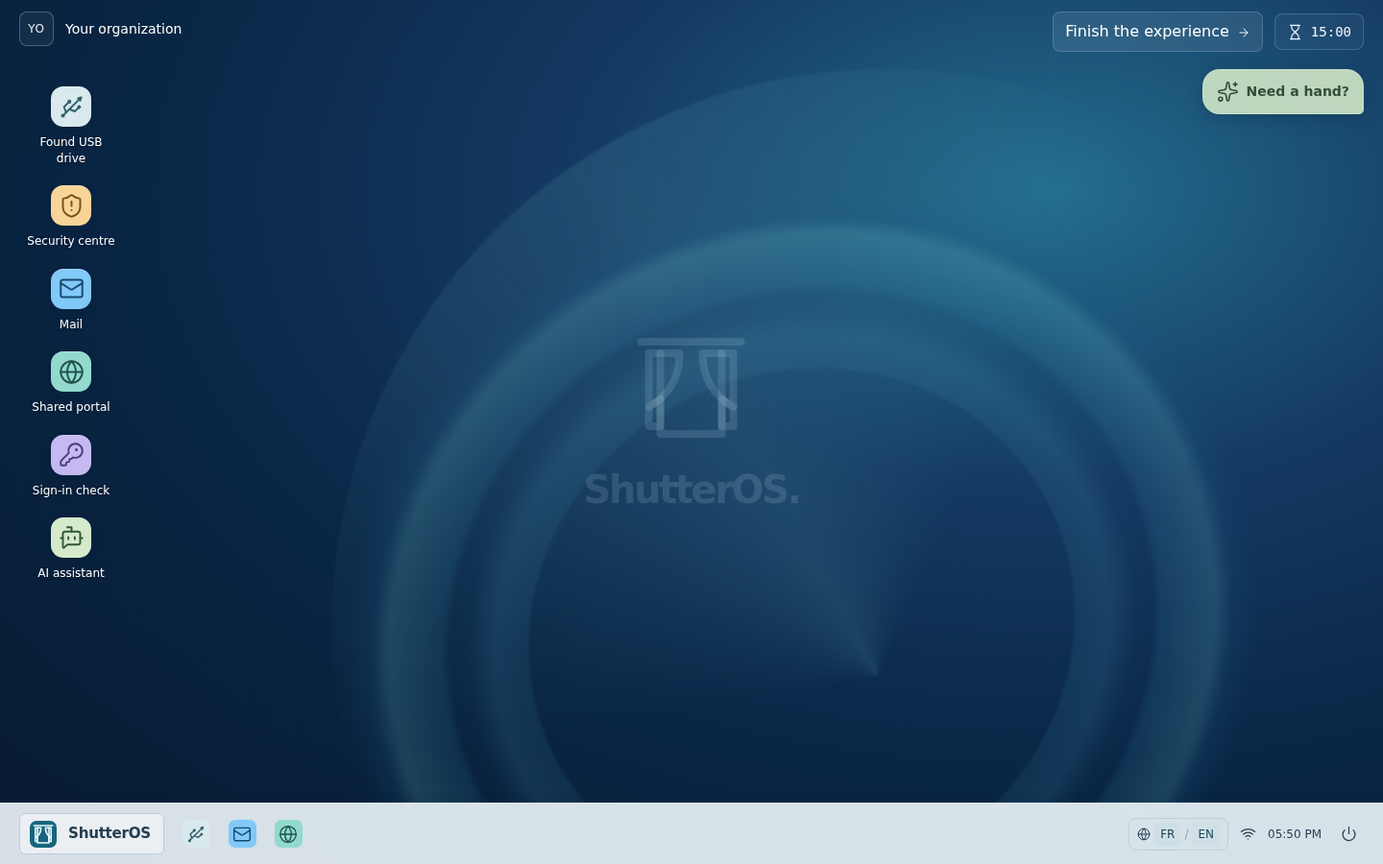
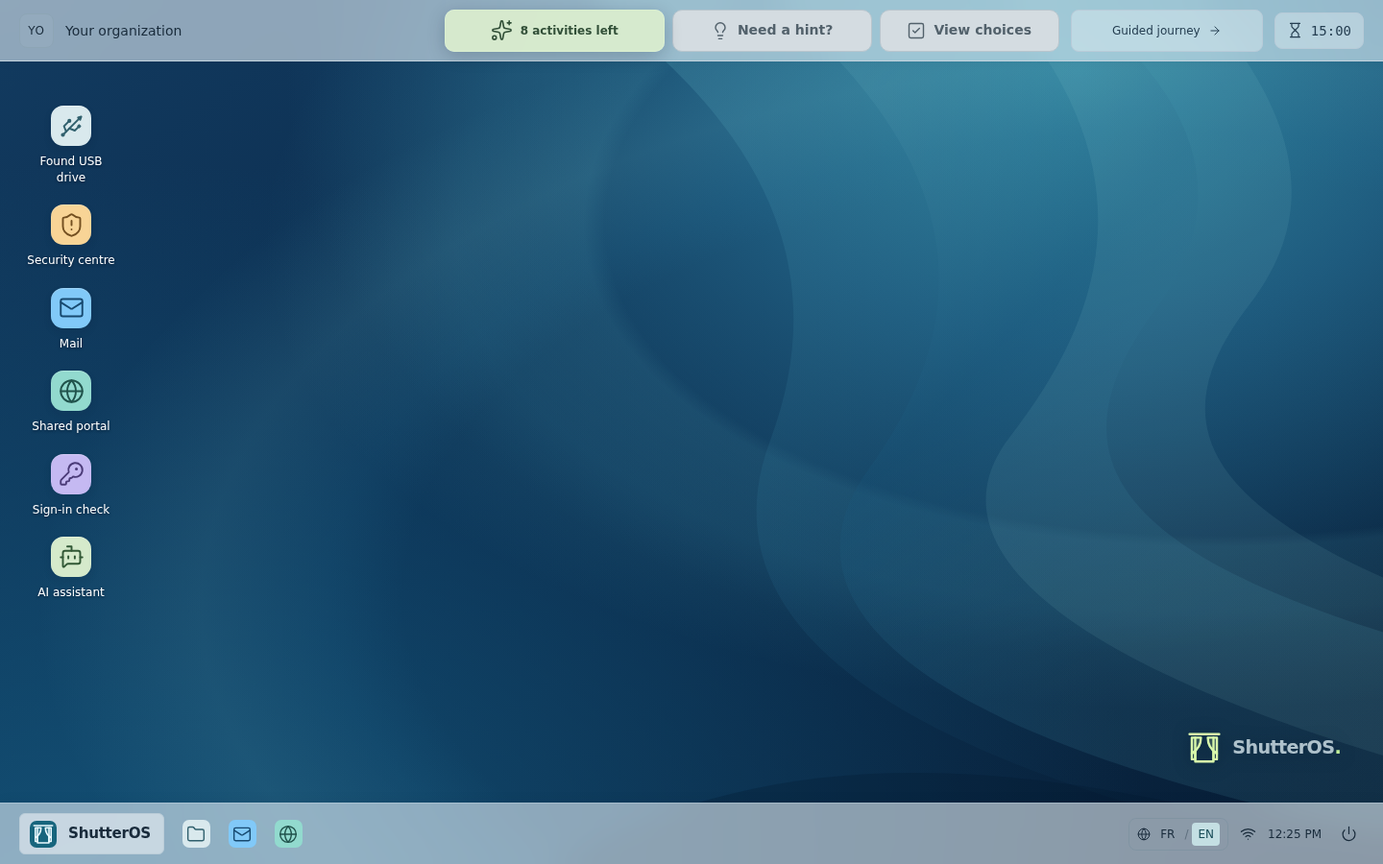
docs: align product site and guides with the desktop experience

diff --git a/docs/content.md b/docs/content.md
@@ -14,7 +14,9 @@ Keep professional and personal passwords separate. MFA adds protection, but a pa
 
 An unknown device can introduce risk merely by being connected. A media sanitisation station (French: “station de décontamination”, also called “station blanche”) is a dedicated workstation used by the organisation to scan media and handle detected threats, such as by deletion or quarantine. Its analysis reduces risk without guaranteeing safety. The scenario never reads an actual device.
 
-In the simulation, the desktop icon first opens a fictional file explorer. Selecting a file is harmless in the game; running the disguised executable triggers the consequence, and the archive also triggers a simulated infection. The readme opens a fictional text editor and is harmless in this exercise. It does not establish that the drive or its other files are safe. This deliberate discovery step is not a claim that browsing a real unknown drive is safe.
+In the simulation, the desktop icon first opens a fictional file explorer. A single click opens an activity or file; there is no separate file-selection step. Opening the disguised executable or archive triggers a simulated infection. Opening the readme records a risk and shows a warning in the fictional editor, while leaving the activity open. A subsequent safe action earns an amber assessment: the player took a risk, then reacted appropriately. The individual recovery action remains correct. These outcomes describe the simulated journey, not a ranking of file extensions: neither a text filename nor the absence of visible symptoms proves that a real unknown drive is safe.
+
+![USB feedback: a protective action after opening an unchecked file](images/usb-caution.png)
 
 ### Suspected incident
 
@@ -38,25 +40,25 @@ An unexpected authentication request should be denied and reported. Never share 
 
 ### AI assistant and work information
 
-In the AI situation, choose an internal or commercial tool, inspect the exercise policy, preview a prepared message, then send it. There is no real login, free-text entry, upload or AI request. Five variants cover routine car park meeting notes and security notes, each with or without names, plus a general template request. Neutral titles and an interleaved order encourage reading the drafts; the security notes carry only a “[Security]” marker.
+In the AI situation, choose an internal or commercial tool, inspect the exercise policy, preview a prepared message, then send it. There is no real login, free-text entry, upload or AI request. Five variants cover routine end-of-year meal planning notes and security notes, each with or without names, plus a request for a general working method. Neutral titles and an interleaved order encourage reading the drafts; the security notes carry only a “[Security]” marker.
 
-The fictional policy permits both versions of the routine project and general templates in the internal tool. The commercial tool permits the anonymised routine project and the general template. Neither accepts either version of the restricted security notes: removing names does not remove access vulnerabilities or remediation dates. Feedback explains the distinction after sending. Approval of this fictional draft is not a guarantee that removing names adequately anonymises a real document. These exercise rules do not replace the deploying organisation’s policy or AI usage charter.
+The fictional policy permits both versions of the routine project and general methods in the internal tool. The organisation does not ban commercial services, but excludes named, sensitive or recognisable internal information. The permitted routine draft removes names and identifying project details, alongside the general method option. Neither accepts either version of the restricted security notes: removing names does not remove access vulnerabilities or remediation dates. Feedback explains the distinction after sending. Approval of this fictional draft is not a guarantee that removing names adequately anonymises a real document. These exercise rules do not replace the deploying organisation’s policy or AI usage charter.
 
 Every outcome shows a common reminder about confidentiality, anonymisation and organisational rules. Removing names does not necessarily anonymise a document or make internal information shareable. Proper anonymisation can help within an approved use; a paid subscription alone grants no permission. Encourage asking before sending, reporting mistakes promptly, and checking generated answers. Guided completion offers both the native controls and equivalent guided choices.
 
 ### Quiet routines
 
-Three optional desktop routines reinforce password handling, company-approved system and software updates, and screen locking. Start provides direct access to account, update and lock controls. Their reminders wait while an activity or explanation is open, and do not interrupt guided completion. Title bars identify these tools as workstation protection; password renewal is separate from the mailbox. Follow the organisation's update and password policies while avoiding arbitrary password rotation as a game rule.
+The three-step workstation-protection activity reinforces password handling, company-approved system and software updates, and screen locking. Start provides direct access to account, update and lock controls. Their reminders wait while an activity or explanation is open, and do not interrupt guided completion. Title bars identify these tools as workstation protection; password renewal is separate from the mailbox. Follow the organisation's update and password policies while avoiding arbitrary password rotation as a game rule.
 
 ### Teaching and facilitation
 
-The guided ending targets three to five minutes: observe a cue, choose an action, see the simulated consequence, and read one practical takeaway; the session deadline still applies (fifteen minutes by default, configurable before deployment). Optional two-choice microchecks open in a separate view after the password routine (My account or guided routines) and after incident/MFA feedback. The login lesson contains no quiz. Microchecks are skippable and do not alter the primary score. Offer plausible choices, explain the consequence in about one sentence, and let participants replay situations to try different choices. Microcheck answers are retained for the current session.
+The guided ending targets three to five minutes: observe a cue, choose an action, see the simulated consequence, and read one practical takeaway; the session deadline still applies (fifteen minutes by default, configurable before deployment). Optional two-choice microchecks are integrated into the current lesson after the password routine (My account or guided routines) and after incident/MFA feedback. The login lesson contains no quiz. Microchecks are skippable and do not alter the primary score. Offer plausible choices, explain the consequence in about one sentence, and let participants replay situations to try different choices. Microcheck answers are retained for the current session.
 
 Use supportive language: reporting a click or an approval quickly is a protective action, not a failure. The game is a local simulator. The mailbox contains fixed fictional messages; it does not send mail or demonstrate a real spoofing technique.
 
 ## Editorial rules
 
-Target first-time awareness: decisions must follow visible clues, not knowledge of acronyms or security protocols. Introduce an unfamiliar action through a concrete example; keep technical references in these notes. Optional hints help locate controls without requiring a prior scenario. Feedback must describe the action actually taken. The seven scenarios use the same first-attempt assessment. A separate workstation-protection activity records three completed steps (password, updates and locking), without adding them to the scenario score. Direct controls and guided choices share the same action definitions and feedback, with the selected option identified in text as well as colour.
+Target first-time awareness: decisions must follow visible clues, not knowledge of acronyms or security protocols. Introduce an unfamiliar action through a concrete example; keep technical references in these notes. Optional hints prompt reflection and sometimes point to contextual information or controls. Feedback must describe the action actually taken. The seven scenarios use the same first-attempt assessment. A separate workstation-protection activity records three completed steps (password, updates and locking), without adding them to the scenario score. Direct controls and guided choices share the same action definitions and feedback, with the selected option identified in text as well as colour.
 
 Keep claims specific and proportionate. Do not imply that a media sanitisation station, a padlock icon, a signature, MFA, or a single visual signal guarantees safety. Familiar desktop conventions are acceptable; use original artwork and fictional service identities. Do not add real brands, real login forms, executable files, tracking, external embeds, or network-backed demonstrations.
 

diff --git a/docs/overview.md b/docs/overview.md
@@ -1,43 +1,37 @@
 # Architecture overview
 
-ShutterOS is a static Svelte application with a separate TypeScript core. The core decides what happens in the game; the browser supplies time, configuration and player actions. Session data stays in memory, with no backend or saved scores.
+ShutterOS is a static application with a deterministic TypeScript game core and a Svelte interface. It has no backend. Session progress lives in memory and is discarded when the session ends.
 
-## Code organisation
+## Responsibilities
 
-| Location                 | Owns                                                                        |
-| ------------------------ | --------------------------------------------------------------------------- |
-| `packages/core`          | Game state, decisions, progression and derived view data.                   |
-| `src/lib/contract`       | Validation of the external configuration JSON.                              |
-| `src/lib/infrastructure` | Browser clock, configuration loading and mapping, images and legal notices. |
-| `packages/components`    | Svelte rendering, input drafts, window layout and focus.                    |
-| `src/lib/app`            | Connecting the core to the browser and managing their lifetimes.            |
+| Layer                    | Responsibility                                                                 |
+| ------------------------ | ------------------------------------------------------------------------------ |
+| `packages/core`          | Game state, permitted actions, outcomes, progression and semantic projections. |
+| `packages/components`    | Screens, input drafts, window geometry, focus and visual guidance.             |
+| `src/lib/contract`       | Decode and validate external configuration.                                    |
+| `src/lib/infrastructure` | Browser time, configuration loading, branding assets and legal notices.        |
+| `src/lib/app`            | Connect the game to browser services and manage their lifetimes.               |
 
-A player action follows **component → app runtime → core transition → updated state → component**. Components emit intents; the core returns the next state. For example, disconnecting the simulated network moves the incident to its reporting step. Moving or minimising its window is handled by the view, which reports whether the activity is visible so assistance time can pause.
+Dependencies point toward the core. It compiles without DOM types or runtime dependencies. Components emit typed intents; they do not assign results. ESLint and [boundary tests](../tests/unit/boundaries.test.ts) enforce import boundaries.
 
-The core compiles without DOM types or external dependencies. The Svelte components compile independently of the SvelteKit application and depend only on the core and their UI libraries. ESLint restricts imports between layers, and [boundary tests](../tests/unit/boundaries.test.ts) check these restrictions. Configuration passes through a strict decoder before reaching the core; invalid settings produce an error screen.
+The typed text catalogue currently groups scenario copy and interface labels in `core/data`; configuration likewise carries both game settings and branding. These shared data contracts do not give the transition engine access to browser services.
 
-## Session behaviour
+## State and interaction
 
-There is one deadline, set at login. Before handling an action, the runtime reads the current time and the core checks whether the session has expired. A click after the deadline therefore resets the session, even if a background tab delayed the clock callback. Periodic callbacks refresh the display and trigger expiry when nobody interacts. There are no per-scenario countdowns.
+A player action follows **view → app runtime → core transition → state → view**. The runtime supplies time explicitly, so transitions are reproducible without a browser. Native application actions and questionnaire choices use the same commands and outcome rules, defined in the [activity matrix](../packages/core/src/data/activities.ts).
 
-Guided finish continues an unfinished situation, then covers the remaining ones using the same deadline. Replays show new consequences without replacing the first recorded result. Each unfinished activity retains its decision step and assistance level across navigation; the incident’s isolation step therefore survives a return to the desktop. See the [transition code](../packages/core/src/runtime/game.ts) and [game-rule tests](../packages/core/tests/game.test.ts).
+The core owns the session deadline, assistance progression and recorded outcomes. Window movement, resizing, visual hint targets and keyboard focus remain presentation state. Minimising an activity reports its visibility to the core so assistance time pauses without extending the session deadline.
 
-Minimising preserves a window’s draft. Logout and expiry create a new session generation: Svelte remounts the session views, clearing drafts and dialogs as well as game progress. Language is owned outside that reset boundary, so the player’s language choice survives. Browser resources are created after mount and disposed when the application is replaced or unmounted.
+## Invariants
 
-## Activity matrix and assistance
+- Every action is checked against the session deadline, including after browser timers have been delayed.
+- Navigation preserves unfinished decisions. Replays never replace the first recorded result.
+- An action's outcome and its assessment are distinct: a safe USB action after opening the unchecked text file receives a caution assessment.
+- Session reset remounts the views to clear drafts and dialogs. Language preference survives outside that boundary.
+- External configuration is validated before entering the game; invalid input produces an error screen.
 
-[`data/activities.ts`](../packages/core/src/data/activities.ts) defines each activity’s family, actions, outcomes, next step and first hint target. Both native application controls and guided choices send the same intents. Tests enumerate this matrix and check progression; translations supply presentation copy rather than duplicating the rules.
+## Delivery
 
-Assistance is progressive: one hint identifies a control, the next opens the choices. Players may request either without waiting. Otherwise, each level is offered after two minutes of visible activity without progression; repeated clicks do not postpone it. Hidden or minimised activities pause this assistance clock. Guided completion opens the choices immediately. These delays never shorten the session or mark an answer wrong.
+The same application is built as a static site and as a standalone HTML file. The public product site adds the demo, guides, generated API reference and Storybook; this documentation tooling is separate from the game runtime.
 
-The login hint appears after three failed attempts or two minutes after first input. An untouched login screen can wait indefinitely. Notifications for account, update and lock routines are shown only on the free desktop. Guidance occupies its own workspace row and, when expanded, a bounded column beside the window.
-
-The remaining-activity count includes the seven scenarios and one workstation-protection activity. Its three steps (password, updates and locking) must all be completed before the normal completion flow reaches the recap. Desktop guidance can open this activity without waiting for notifications.
-
-The desktop guide only names a destination; it does not reveal or consume activity hints. In free exploration, each new decision step starts with fresh assistance time. Continuing either mail opens the other unfinished message. The recap keeps its heading and actions visible while its activity list scrolls independently.
-
-## Distribution
-
-`pnpm build` produces the static game in `dist/` and a standalone file in `dist/portable/shutteros.html`. The static game loads its configuration at startup; the standalone edition embeds it during the build.
-
-`pnpm build:site` assembles the public product site in `dist/site/`, including a demo built for `/demo/`, translated guides, the generated core API and Storybook. Documentation generation is separate from the game runtime. See [publication](publishing.md) for base paths and artifacts, [verification](verification.md) for checks, and [kiosk setup](kiosk.md) for host responsibilities.
+See [verification](verification.md) for checks, [publication](publishing.md) for artifacts and hosting, and [kiosk setup](kiosk.md) for deployment responsibilities.

diff --git a/docs/user-guide.fr.md b/docs/user-guide.fr.md
@@ -4,22 +4,24 @@ ShutterOS est un jeu de sensibilisation à la cybersécurité sur un bureau fict
 
 ## Jouer
 
-1. **Explorez le bureau.** Double-cliquez sur une application ou ouvrez-la depuis le menu Démarrer. Lisez les messages, examinez les détails et essayez les commandes avant de décider quoi faire.
-2. **Demandez un indice si besoin.** L’assistant au-dessus de l’activité propose un premier indice qui met une commande en évidence, puis un second qui ouvre les choix guidés. Demandez-les sans attendre, ou laissez-les apparaître après deux minutes sans progression à chaque niveau. Aucun compte à rebours ne presse votre réponse.
-3. **Choisissez comment terminer.** Continuez à explorer ou cliquez sur **Terminer l’expérience** pour parcourir les situations restantes et accéder au bilan.
+1. **Explorez le bureau.** Cliquez sur une application ou ouvrez-la depuis le menu Démarrer. Lisez les messages, examinez les détails et essayez les commandes avant de décider quoi faire.
+2. **Demandez un indice si besoin.** Dans la barre supérieure, le compteur d’activités restantes précède deux boutons dédiés. **Un indice ?** affiche une piste de réflexion, parfois accompagnée d’un repère visuel ; il devient **Masquer l’indice**, puis **Revoir l’indice** une fois l’indice masqué. **Voir les choix** ouvre le QCM. En exploration libre, ce bouton reste désactivé jusqu’à ce que vous ayez effectivement consulté l’indice. Ces aides sont aussi proposées automatiquement après deux minutes sans progression pour l’indice, puis deux minutes supplémentaires pour les choix. Aucun compte à rebours ne presse votre réponse.
+3. **Choisissez comment terminer.** Continuez à explorer ou cliquez sur **Parcours guidé** pour parcourir les situations restantes et accéder au bilan. Cliquez sur **Parcours libre** pour quitter le parcours guidé sans perdre l’activité en cours ni votre progression ; vous pouvez alors choisir vous-même la prochaine activité.
 
-Le sablier indique le temps restant : quinze minutes par défaut. Il continue pendant la fin guidée. À zéro, le jeu revient à la connexion et efface la progression.
+En parcours libre, chaque nouvelle activité s’ouvre dans une fenêtre de taille normale, quelle que soit la taille de l’activité précédente. Afficher le QCM peut élargir la fenêtre pour garder le contenu lisible, sans la maximiser. En parcours guidé, les activités s’enchaînent ; chaque nouvelle activité s’ouvre agrandie avec le QCM visible, mais vous pouvez la restaurer. Le résultat reste agrandi ou en mode fenêtré, selon votre choix pour l’activité en cours.
 
-Vous pouvez rejouer les situations terminées pour essayer une autre approche. Le bilan conserve votre premier résultat ; il sert à échanger, pas à enregistrer une évaluation.
+Le sablier indique le temps restant : quinze minutes par défaut. Il continue pendant le parcours guidé. À zéro, le jeu revient à la connexion et efface la progression.
 
-Sur le bureau, **Un coup de pouce ?** indique le nombre d’activités restantes et **M’y emmener** ouvre la suivante sans dévoiler ses indices. Le parcours compte sept scénarios et une activité **Protéger mon poste**, en trois étapes : mot de passe, mises à jour et verrouillage. Ces trois gestes sont proposés avant le bilan, même sans avoir ouvert leurs notifications.
+Vous pouvez rejouer les situations terminées pour essayer une autre approche. Le bilan conserve votre premier résultat ; il sert à échanger, pas à enregistrer une évaluation. Un résultat orange reconnaît une bonne réaction après une prise de risque, par exemple l’arrêt de l’exploration d’une clé après avoir ouvert le fichier texte `LISEZ-MOI.txt`.
+
+Le compteur d’activités restantes reste toujours visible à gauche des boutons d’indice et de QCM. Sur le bureau, lorsqu’aucune activité n’est affichée en exploration libre, il est activé : ouvrez-le pour consulter l’aide, puis choisissez **M’y emmener** afin d’accéder à l’activité suivante. Cette action ne révèle ni ne consomme son indice. Le parcours compte sept scénarios et une activité **Protéger mon poste**, en trois étapes : mot de passe, mises à jour et verrouillage. Ces trois gestes sont proposés avant le bilan, même sans avoir ouvert leurs notifications.
 
 Dans le bilan, faites défiler la liste des activités ; les boutons pour reprendre ou terminer restent visibles.
 
 ## Commandes utiles
 
 - **Langue :** choisissez FR ou EN sur l’écran de connexion ou dans la barre des tâches.
-- **Fenêtres :** faites glisser la barre de titre pour les déplacer. Leurs boutons permettent de les réduire ou de revenir au bureau. L’activité et ses indices reprennent à la réouverture.
+- **Fenêtres :** déplacez-les par leur barre de titre ; redimensionnez les fenêtres principales par leurs bords ou leurs coins. Agrandissez-les pour couvrir le bureau. Réduisez-les puis retrouvez-les dans la barre des tâches sans perdre votre place. Le fichier texte de la clé et les indices ont leurs propres fenêtres déplaçables ; **Masquer l’indice** replie sa fenêtre et ses repères visuels ; **Revoir l’indice** permet de relire l’indice.
 - **Clavier :** Tab passe d’une commande à l’autre ; Entrée ou Espace active les boutons. Le son n’est pas nécessaire.
 - **Quitter la session :** demande une confirmation avant d’effacer la progression. Annulez pour continuer à jouer.
 

diff --git a/docs/user-guide.md b/docs/user-guide.md
@@ -4,22 +4,24 @@ ShutterOS is a cybersecurity awareness game on a fictional desktop. Allow five t
 
 ## Play
 
-1. **Explore the desktop.** Double-click an application or open it from Start. Read the messages, inspect the details and try the controls before deciding what to do.
-2. **Ask for a hint when needed.** Use the assistant above the activity: a first hint highlights a useful control, a second opens guided choices. Both are available immediately on request, or offered after two minutes without progress at each level. There is no response countdown.
-3. **Choose how to finish.** Keep exploring, or select **Finish the experience** to work through the remaining situations and reach the recap.
+1. **Explore the desktop.** Click an application or open it from Start. Read the messages, inspect the details and try the controls before deciding what to do.
+2. **Ask for a hint when needed.** In the top bar, the remaining-activity counter comes before two dedicated buttons. **Need a hint?** displays a question to consider, sometimes with a visual cue; it becomes **Hide hint**, then **Show hint again** once hidden. **View choices** opens the questionnaire. In free exploration, this button stays disabled until you have actually viewed the hint. Help is also offered automatically after two minutes without progress for the hint, then after another two minutes for the choices. There is no response countdown.
+3. **Choose how to finish.** Keep exploring, or select **Guided journey** to work through the remaining situations and reach the recap. Select **Free exploration** to leave the guided journey without losing the current activity or your progress; you can then choose what to open next.
+
+In free exploration, each new activity opens in a normal window, regardless of the size of the previous activity. Opening the questionnaire may widen the window to keep both panes readable, without maximizing it. In guided mode, activities follow one another; each new activity opens maximized with the questionnaire visible, but you can restore it. The result keeps the current activity maximized or restored as you chose.
 
 The hourglass shows the time left in the session: fifteen minutes by default. It keeps running during the guided finish. At zero, the game returns to the login screen and clears your progress.
 
-You can replay completed situations to try another approach. The recap keeps your first result; it is for discussion, not a saved assessment.
+You can replay completed situations to try another approach. The recap keeps your first result; it is for discussion, not a saved assessment. An amber result recognises a good response after taking a risk, such as stopping exploration of a USB drive after opening the `READ-ME.txt` text file.
 
-On the desktop, **Need a hand?** shows how many activities remain, and **Take me there** opens the next one without revealing its hints. The journey includes seven scenarios and one **Protect my workstation** activity with three steps: password, updates and locking. These steps are offered before the recap, even if their notifications were never opened.
+The remaining-activity counter is always visible to the left of the hint and questionnaire buttons. On the desktop, when no activity is displayed during free exploration, it is enabled: open it to read the help dialog, then select **Take me there** to reach the next activity. This action neither reveals nor consumes its hint. The journey includes seven scenarios and one **Protect my workstation** activity with three steps: password, updates and locking. These steps are offered before the recap, even if their notifications were never opened.
 
 In the recap, scroll the activity list; the buttons to resume or leave remain visible.
 
 ## Useful controls
 
 - **Language:** choose FR or EN on the login screen or taskbar.
-- **Windows:** drag the title bar to move one. Use its controls to minimise it or return to the desktop. Your activity and hints resume when you reopen it.
+- **Windows:** drag the title bar to move one, or any edge or corner to resize a main window. Maximise to cover the desktop. Minimise and restore from the taskbar without losing your place. The USB text file and hints have their own movable windows; **Hide hint** minimises the hint and hides its visual cues; **Show hint again** lets you read the hint again.
 - **Keyboard:** Tab moves between controls; Enter or Space activates buttons. Sound is not required.
 - **Leave the session:** asks for confirmation before clearing progress. Cancel to keep playing.
 

diff --git a/docs/branding.md b/docs/branding.md
@@ -19,7 +19,7 @@ The recommended HTTP deployment can take its name and logo from `dist/kiosk-conf
 
 Omit both `partnerOrganizationName` and `partnerOrganizationLogo` for a single organisation. Either organisation may use a name without a logo; a partner logo requires its partner name. Omit `organizationName` to retain the translated placeholder.
 
-Use a filename ending in `.png`, `.webp`, or `.svg`, with only ASCII letters, numbers, dots, `_`, and `-`. Paths, URL schemes, query strings, fragments, and data URLs are rejected. Place the image beside `kiosk-config.json` and the generated `index.html`; when building from source, put it in `static/` so the static adapter copies it to `dist/`. The browser loads it only as an `<img>` resource. Keep the file at or below 256 KiB. Use a self-contained SVG with a `viewBox`; external fonts or images should not be required. The image keeps its proportions inside a maximum height of 54 px and maximum width of `min(160px, 26vw)`. For two organisations, each logo has its own bounds (96 px wide on desktop, 48 × 40 px on small screens) and retains its proportions. A missing or unreadable logo falls back to that organisation’s initials.
+Use a filename ending in `.png`, `.webp`, or `.svg`, with only ASCII letters, numbers, dots, `_`, and `-`. Paths, URL schemes, query strings, fragments, and data URLs are rejected. Place the image beside `kiosk-config.json` and the generated `index.html`; when building from source, put it in `static/` so the static adapter copies it to `dist/`. The browser loads it only as an `<img>` resource. Keep the file at or below 256 KiB. Use a self-contained SVG with a `viewBox`; external fonts or images should not be required. The image keeps its proportions inside a maximum height of 54 px and maximum width of `min(160px, 26vw)`. The desktop top bar limits logo height to 44 px and aligns both organisations horizontally, with responsive wrapping of the controls. For two organisations, each logo has its own bounds (96 px wide on desktop, 48 × 40 px on small screens) and retains its proportions. A missing or unreadable logo falls back to that organisation’s initials.
 
 ```text
 dist/

diff --git a/README.md b/README.md
@@ -13,7 +13,7 @@ passwords, updates and screen locking before the recap.
 
 [**Play the live demo**](https://fcabouat.github.io/shutteros-playground/demo/?lang=en) · [Jouer en français](https://fcabouat.github.io/shutteros-playground/demo/?lang=fr)
 
-Use it in a reception area, a team workshop or a Cybersecurity Month event. Add your organisation’s identity, configure the session length, and let the kiosk reset for the next player. Players can explore freely or choose a guided finish.
+Use it in a reception area, a team workshop or a Cybersecurity Month event. Add your organisation’s identity, configure the session length, and let the kiosk reset for the next player. Players can explore freely, ask for a hint before opening the choices, or follow a guided route through the remaining activities.
 The experience is local and fictional: it has no backend, account system,
 telemetry, persistence, external API, or real authentication. Game phrases,
 messages, addresses, files, and forms stay in the current session and are never
